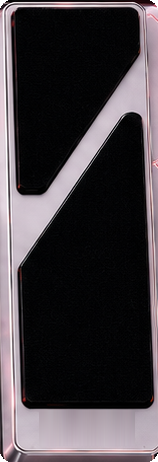
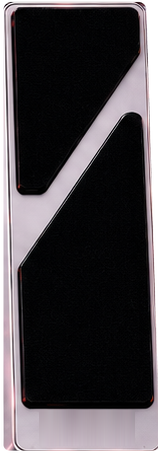
Rock only the treadle, not pieces of the housing (v0.12.1)
The treadle artwork was an opaque rectangle cut from the mockup. It
carried the housing's right chrome strip, the base's lip and chamfered
corner, and a dark top band, all of which tilted with the pedal. The
artwork is now masked to the treadle's own outline: a slanted right edge
with rounded corners, everything outside it transparent. The 3D side
walls, floor shadow and shading overlay follow the same outline, and the
camera is a little further away, so the lifted end stays within the
housing's rails.

Claude-Session: https://claude.ai/code/session_01V19ebMDYfCgGwS6wYF5FKk

Changed region(s): [[0.0, 0.0, 1.0, 1.0]]

diff --git a/source/ui/PerformanceControls.cpp b/source/ui/PerformanceControls.cpp
@@ -269,7 +269,8 @@ void ExpressionPedal::paint (juce::Graphics& g)
     const auto length = flat.getHeight(), width = flat.getWidth();
     const auto thickness = width * 0.07f;   // the artwork has its own bevelled edge; this is the body under it
     const auto pivotZ = thickness * 1.2f;                              // axle height above the base
-    const auto cameraZ = length * 2.2f;                                // camera height: how strong the perspective is
+    const auto cameraZ = length * 3.0f;                                // camera height: how strong the perspective is
+                                                                       // (far enough that the lifted end stays within the housing's rails)
     const auto cameraY = length * 0.6f;                                // camera a little towards the player
     const auto centre = flat.getCentre();
     const auto topZ = pivotZ + thickness * 0.5f;
@@ -292,6 +293,15 @@ void ExpressionPedal::paint (juce::Graphics& g)
         return project (rotate ({ (u - 0.5f) * width, (v - 0.5f) * length, z }));
     };
 
+    // The treadle's outline within its artwork (0-1 across and along it).
+    // The mockup drew the pedal from slightly to the left, so its right edge
+    // leans out a little towards the heel; everything outside the outline is
+    // transparent in the artwork, so only the treadle itself moves.
+    constexpr float outlineLeft = 3.5f / 158.0f, outlineTop = 2.0f / 462.0f, outlineBottom = 450.5f / 462.0f;
+    constexpr float outlineRightTop = 146.4f / 158.0f, outlineRightBottom = 159.5f / 158.0f;
+    const std::array<juce::Point<float>, 4> outline { juce::Point<float> { outlineLeft, outlineTop }, { outlineRightTop, outlineTop },
+                                                      { outlineRightBottom, outlineBottom }, { outlineLeft, outlineBottom } };
+
     juce::Path recess;
     recess.addRoundedRectangle (flat, 11.0f);
 
@@ -303,10 +313,9 @@ void ExpressionPedal::paint (juce::Graphics& g)
             const auto p = rotate ({ (u - 0.5f) * width, (v - 0.5f) * length, pivotZ - thickness * 0.5f });
             return project ({ p.x + p.z * 0.1f, p.y + p.z * 0.3f, 0.0f });
         };
-        shadow.startNewSubPath (onBase (0, 0));
-        shadow.lineTo (onBase (1, 0));
-        shadow.lineTo (onBase (1, 1));
-        shadow.lineTo (onBase (0, 1));
+        shadow.startNewSubPath (onBase (outline[0].x, outline[0].y));
+        for (size_t i = 1; i < outline.size(); ++i)
+            shadow.lineTo (onBase (outline[i].x, outline[i].y));
         shadow.closeSubPath();
         juce::Graphics::ScopedSaveState state (g);
         g.reduceClipRegion (recess);
@@ -314,11 +323,9 @@ void ExpressionPedal::paint (juce::Graphics& g)
     }
 
     // The treadle's edges (its thickness): chrome, lit along the top.
-    const std::array<std::pair<juce::Point<float>, juce::Point<float>>, 4> edges {
-        std::pair<juce::Point<float>, juce::Point<float>> { { 0, 0 }, { 1, 0 } },
-        { { 1, 0 }, { 1, 1 } }, { { 1, 1 }, { 0, 1 } }, { { 0, 1 }, { 0, 0 } } };
-    for (const auto& [a, b] : edges)
+    for (size_t i = 0; i < outline.size(); ++i)
     {
+        const auto a = outline[i], b = outline[(i + 1) % outline.size()];
         juce::Path wall;
         wall.startNewSubPath (corner (a.x, a.y, topZ));
         wall.lineTo (corner (b.x, b.y, topZ));
@@ -352,14 +359,13 @@ void ExpressionPedal::paint (juce::Graphics& g)
     // light (toe down) and darkens tipped away.
     {
         juce::Path face;
-        face.startNewSubPath (corner (0, 0, topZ));
-        face.lineTo (corner (1, 0, topZ));
-        face.lineTo (corner (1, 1, topZ));
-        face.lineTo (corner (0, 1, topZ));
+        face.startNewSubPath (corner (outline[0].x, outline[0].y, topZ));
+        for (size_t i = 1; i < outline.size(); ++i)
+            face.lineTo (corner (outline[i].x, outline[i].y, topZ));
         face.closeSubPath();
         const auto amount = tilt / maxTilt;
         g.setColour (amount > 0.0f ? juce::Colours::white.withAlpha (0.06f * amount) : juce::Colours::black.withAlpha (-0.18f * amount));
-        g.fillPath (face.createPathWithRoundedCorners (10.0f));
+        g.fillPath (face.createPathWithRoundedCorners (7.0f));
     }
 
     // While you hover or drag: what the pedal controls and where it is.

diff --git a/CHANGELOG.md b/CHANGELOG.md
@@ -2,6 +2,10 @@
 
 Each version's notes appear on its GitHub Release page.
 
+## 0.12.1
+
+- **Expression pedal:** only the treadle rocks now. Its artwork had been cut from the mockup as a rectangle, so it carried pieces of the housing with it: the chrome strip down the right, the base's lip and corner along the bottom, and a dark band across the top. Those moved with the treadle, as if part of the unit were tilting. Everything outside the treadle's own outline is now transparent. Its sides, shadow and shading follow that outline, and the perspective is slightly gentler, so the lifted end stays within the housing's rails.
+
 ## 0.12.0
 
 **LO-FI: telephone, radio, megaphone, cassette and bitcrusher, for intros and breakdowns.**
